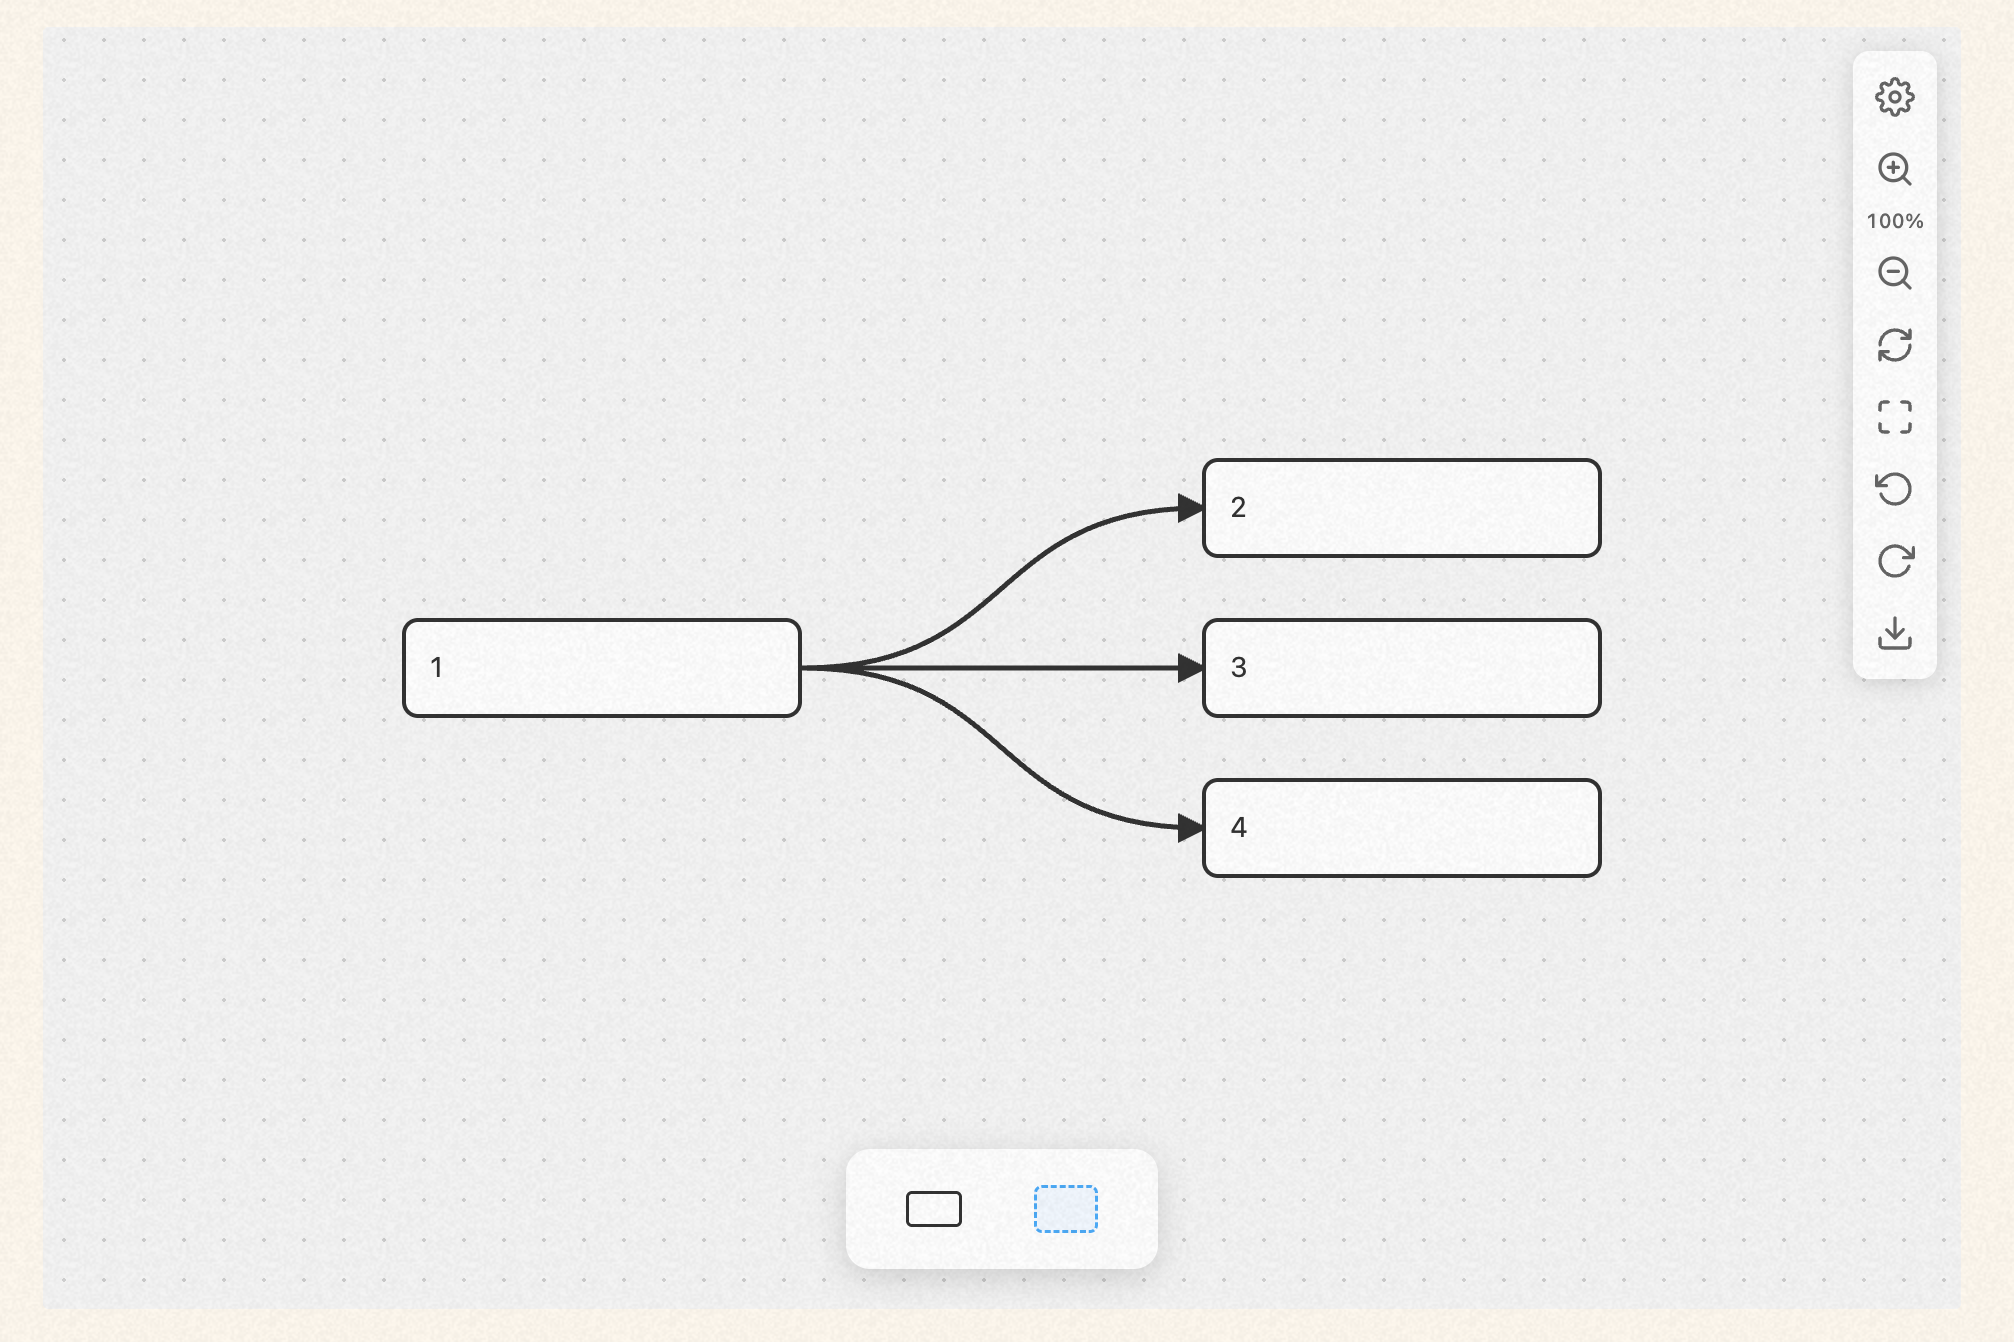
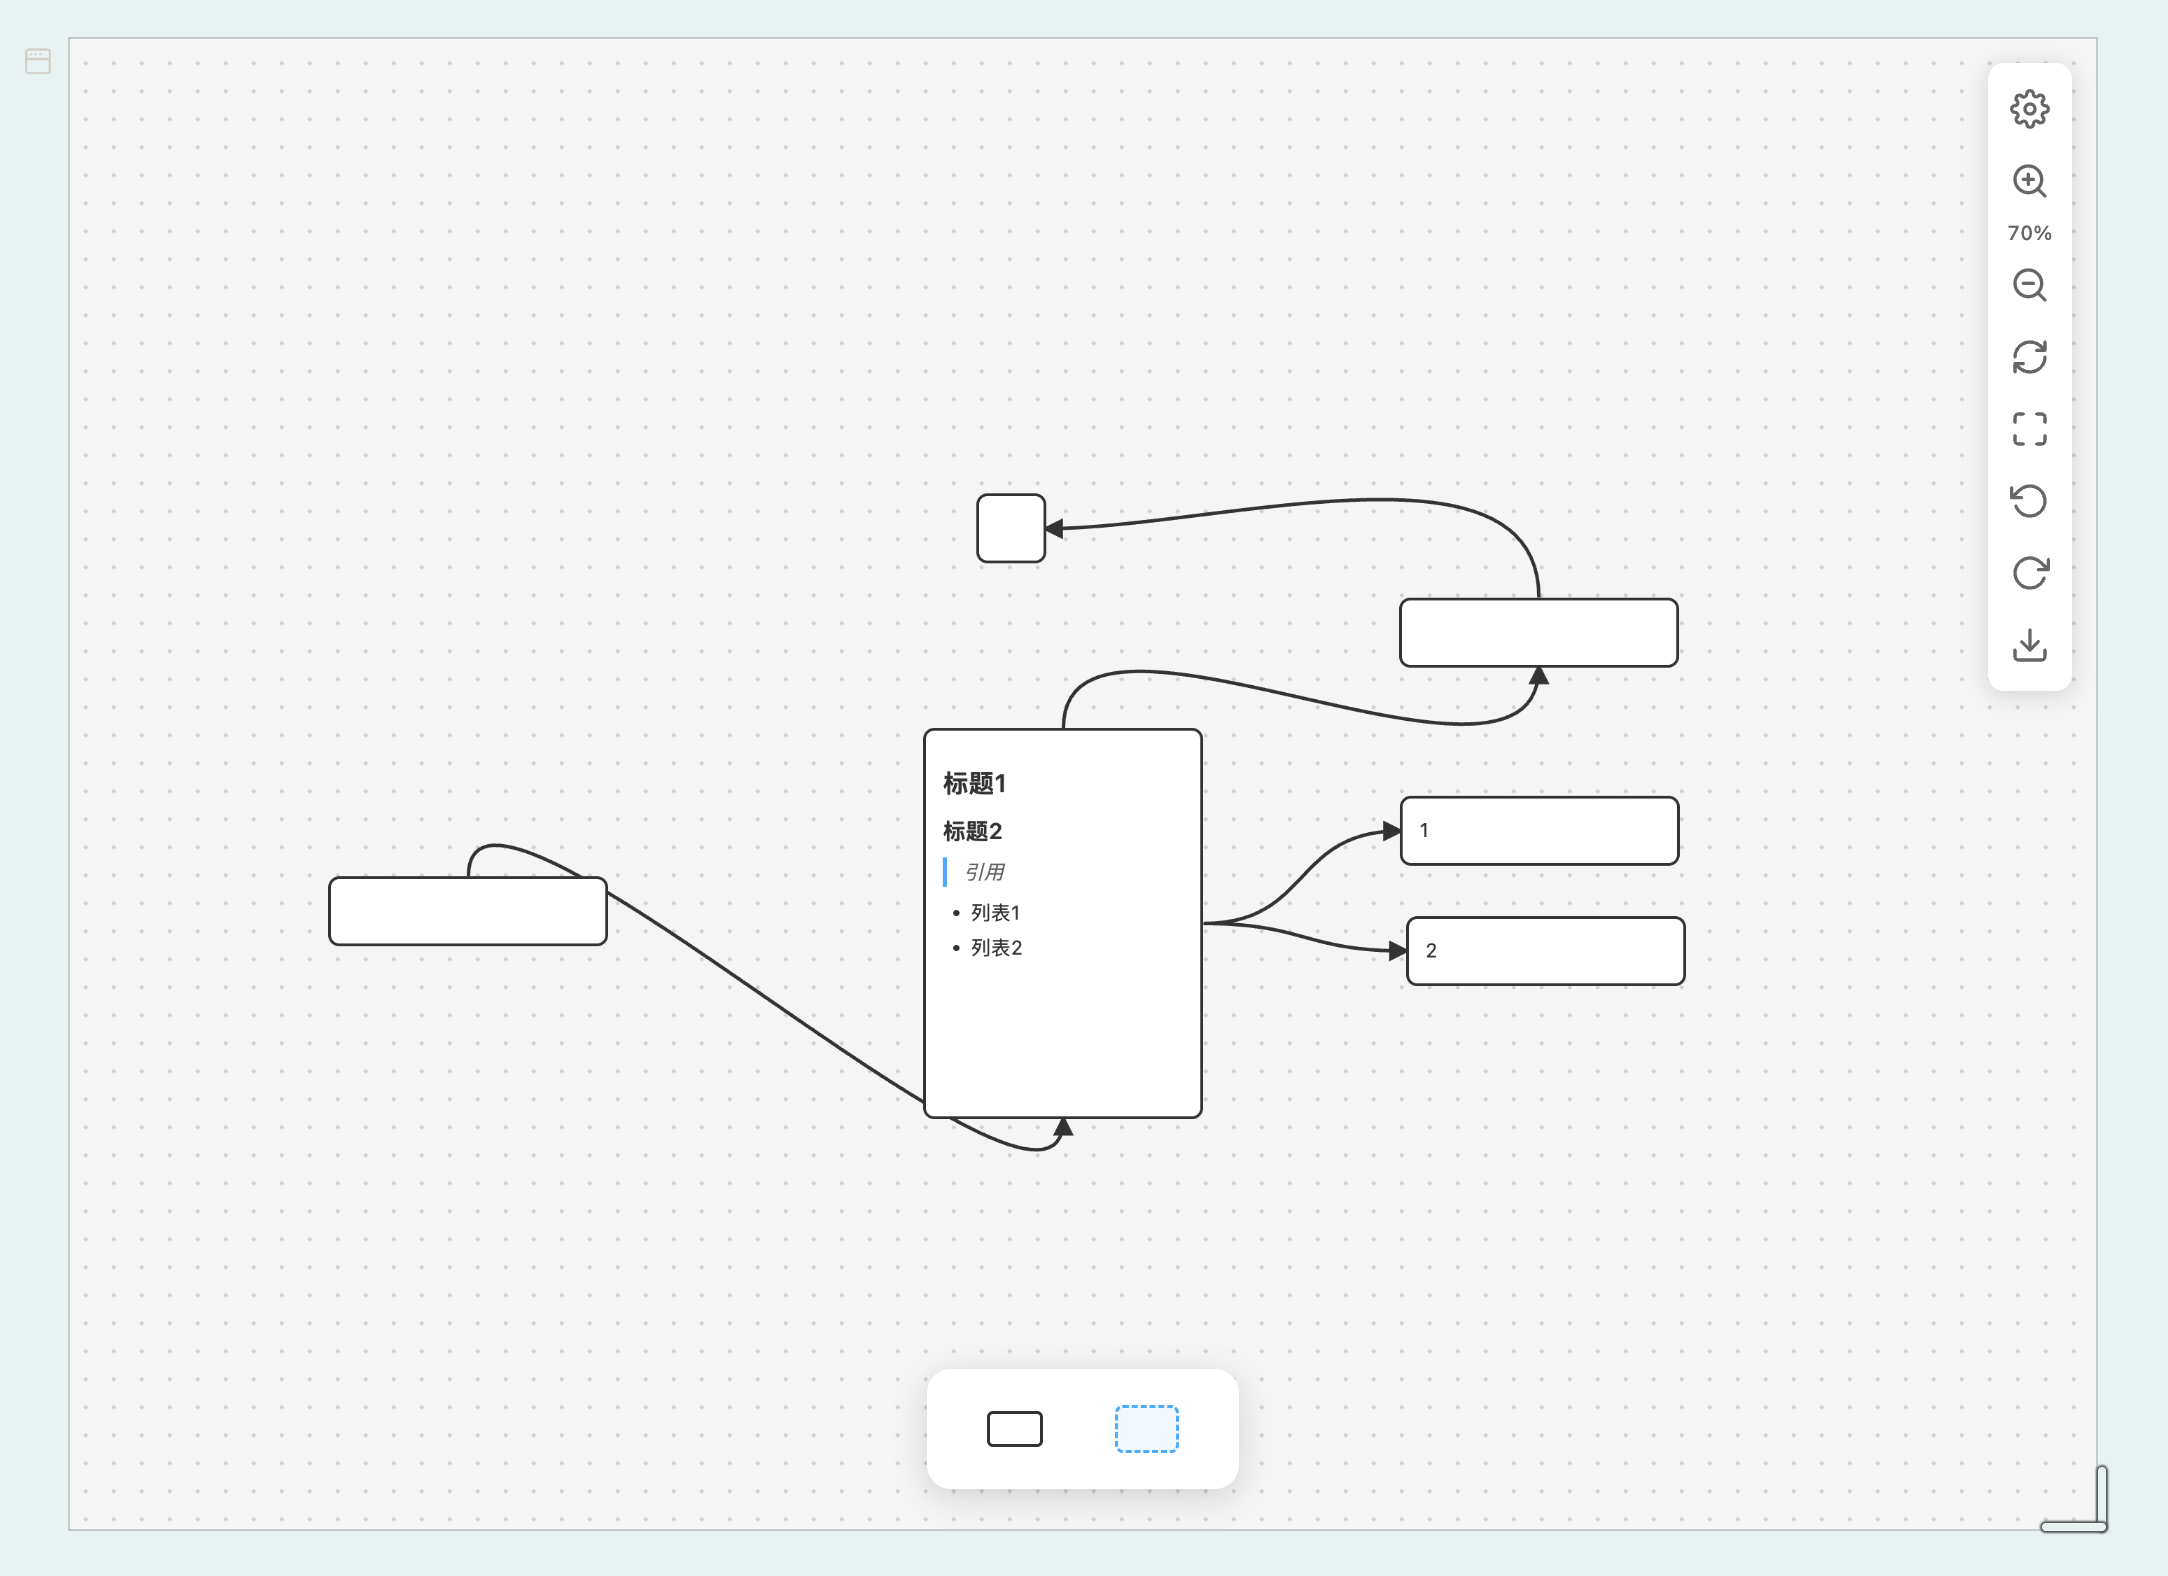
Add files via upload

diff --git a/index.js b/index.js
@@ -367,9 +367,20 @@ function zoom(delta, centerX, centerY) {
     autoSave();
 }
 
-// 重置视图
+// 重置缩放（以画布中心为基准，仅重置 zoom，不改变位置）
 function resetView() {
-    state.viewport = { x: 0, y: 0, zoom: 1 };
+    if (state.viewport.zoom === 1) return;
+    const container = document.getElementById('canvas-container');
+    const rect = container.getBoundingClientRect();
+    const cx = rect.left + rect.width / 2;
+    const cy = rect.top + rect.height / 2;
+    // 以视口中心为基点缩放到 zoom=1
+    const oldZoom = state.viewport.zoom;
+    const canvasX = (cx - rect.left - state.viewport.x) / oldZoom;
+    const canvasY = (cy - rect.top - state.viewport.y) / oldZoom;
+    state.viewport.zoom = 1;
+    state.viewport.x = cx - rect.left - canvasX * 1;
+    state.viewport.y = cy - rect.top - canvasY * 1;
     updateCanvasTransform();
     updateZoomLabel();
     autoSave();
@@ -828,13 +839,11 @@ function bindNodeEvents(card, nodeId) {
     });
 }
 
-// 开始编辑节点
-// 开始编辑节点
+// 开始编辑节点（使用 textarea，换行和 Markdown 编辑更可靠）
 function startEditingNode(nodeId) {
     const card = document.querySelector(`[data-node-id="${nodeId}"]`);
     if (!card) return;
 
-    // 只允许编辑文本卡片
     const node = state.nodes.find(n => n.id === nodeId);
     if (!node || node.type !== 'text') {
         showMessage('此卡片类型不支持编辑');
@@ -847,60 +856,55 @@ function startEditingNode(nodeId) {
     state.editingNode = nodeId;
     card.classList.add('editing');
 
-    // 显示 Markdown 源代码供编辑
-    content.textContent = node.text;
-    content.contentEditable = 'true';
-    content.style.whiteSpace = 'pre-wrap';
-    content.style.fontFamily = 'monospace';
-    content.focus();
-
-    // 选中所有文本
-    const range = document.createRange();
-    range.selectNodeContents(content);
-    const selection = window.getSelection();
-    selection.removeAllRanges();
-    selection.addRange(range);
+    // 用 <textarea> 替代 contenteditable（换行可靠、跨浏览器一致）
+    const textarea = document.createElement('textarea');
+    textarea.className = 'card-textarea';
+    textarea.value = node.text || '';
+    textarea.style.cssText = 'width:100%;height:100%;border:none;outline:none;resize:none;' +
+        'padding:12px;font:13px/1.6 Consolas,Monaco,monospace;' +
+        'background:var(--color-bg-secondary);color:var(--color-text-primary);' +
+        'border-radius:inherit;tab-size:4;';
+    content.innerHTML = '';
+    content.appendChild(textarea);
+    textarea.focus();
 
     // 保存编辑内容
     const saveEdit = () => {
-        const node = state.nodes.find(n => n.id === nodeId);
-        if (node) {
-            // 获取编辑后的纯文本（Markdown 源代码）
-            node.text = content.textContent;
-
+        const n = state.nodes.find(nn => nn.id === nodeId);
+        if (n) {
+            n.text = textarea.value;
             // 重新渲染 Markdown
-            content.innerHTML = parseMarkdown(node.text);
-            content.style.whiteSpace = '';
-            content.style.fontFamily = '';
-
+            content.innerHTML = parseMarkdown(n.text);
             autoSave();
         }
-
         state.editingNode = null;
         card.classList.remove('editing');
-        content.contentEditable = 'false';
-
-        content.removeEventListener('blur', saveEdit);
+        textarea.removeEventListener('blur', saveEdit);
+        textarea.removeEventListener('keydown', handleKeyDown);
     };
 
-    content.addEventListener('blur', saveEdit);
+    textarea.addEventListener('blur', saveEdit);
 
-    // Escape 键取消编辑
     const handleKeyDown = (e) => {
-        if (e.key === 'Escape') {
+        if (e.key === 'Escape' && !e.shiftKey) {
             e.preventDefault();
-            content.blur();
-            content.removeEventListener('keydown', handleKeyDown);
+            textarea.blur();
         }
-        // Ctrl/Cmd + Enter 保存
         if ((e.ctrlKey || e.metaKey) && e.key === 'Enter') {
             e.preventDefault();
-            content.blur();
-            content.removeEventListener('keydown', handleKeyDown);
+            textarea.blur();
+        }
+        // Tab 键插入空格而非跳转焦点
+        if (e.key === 'Tab') {
+            e.preventDefault();
+            const start = textarea.selectionStart;
+            const end = textarea.selectionEnd;
+            textarea.value = textarea.value.substring(0, start) + '    ' + textarea.value.substring(end);
+            textarea.selectionStart = textarea.selectionEnd = start + 4;
         }
     };
 
-    content.addEventListener('keydown', handleKeyDown);
+    textarea.addEventListener('keydown', handleKeyDown);
 }
 
 // 开始拖拽节点
@@ -967,6 +971,92 @@ function stopDraggingNode() {
     document.removeEventListener('mousemove', onDraggingNode);
     document.removeEventListener('mouseup', stopDraggingNode);
     autoSave(); // 拖拽结束后统一保存
+}
+
+// 从框选框左键拖拽移动所有选中节点
+let _marqueeDragData = null;
+function startMarqueeDrag(e) {
+    if (state.isReadOnly) return;
+    state.isDragging = true;
+    state._dragActuallyMoved = false;
+
+    const pos = screenToCanvas(e.clientX, e.clientY);
+    _marqueeDragData = {
+        startX: pos.x,
+        startY: pos.y,
+        // 记录每个选中节点的初始位置
+        nodePositions: [...state.selectedNodes].map(id => {
+            const n = state.nodes.find(nn => nn.id === id);
+            return n ? { id, x: n.x, y: n.y } : null;
+        }).filter(Boolean)
+    };
+
+    document.addEventListener('mousemove', onMarqueeDrag);
+    document.addEventListener('mouseup', stopMarqueeDrag);
+}
+function onMarqueeDrag(e) {
+    if (!state.isDragging || !_marqueeDragData) return;
+
+    state._dragActuallyMoved = true;
+    const pos = screenToCanvas(e.clientX, e.clientY);
+    const dx = pos.x - _marqueeDragData.startX;
+    const dy = pos.y - _marqueeDragData.startY;
+
+    _marqueeDragData.nodePositions.forEach(np => {
+        const node = state.nodes.find(n => n.id === np.id);
+        if (!node) return;
+        let newX = np.x + dx;
+        let newY = np.y + dy;
+        if (state.isSnapToGrid) {
+            newX = Math.round(newX / CONFIG.GRID_SIZE) * CONFIG.GRID_SIZE;
+            newY = Math.round(newY / CONFIG.GRID_SIZE) * CONFIG.GRID_SIZE;
+        }
+        node.x = newX;
+        node.y = newY;
+        const card = document.querySelector(`[data-node-id="${np.id}"]`);
+        if (card) { card.style.left = newX + 'px'; card.style.top = newY + 'px'; }
+        updateEdgesForNode(np.id);
+    });
+    // 实时更新框选框位置
+    updateMarqueeRect();
+}
+function updateMarqueeRect() {
+    if (!state._marqueeRect) return;
+    let minX = Infinity, minY = Infinity, maxX = -Infinity, maxY = -Infinity;
+    state.selectedNodes.forEach(id => {
+        const node = state.nodes.find(n => n.id === id);
+        if (node) {
+            minX = Math.min(minX, node.x);
+            minY = Math.min(minY, node.y);
+            maxX = Math.max(maxX, node.x + node.width);
+            maxY = Math.max(maxY, node.y + node.height);
+        }
+    });
+    if (minX >= Infinity) return;
+    const pad = 8;
+    const marquee = document.getElementById('marquee-selection');
+    if (marquee) {
+        marquee.style.left = (minX - pad) + 'px';
+        marquee.style.top = (minY - pad) + 'px';
+        marquee.style.width = (maxX - minX + pad * 2) + 'px';
+        marquee.style.height = (maxY - minY + pad * 2) + 'px';
+    }
+    state._marqueeRect = { left: minX - pad, top: minY - pad,
+        width: maxX - minX + pad * 2, height: maxY - minY + pad * 2 };
+}
+function stopMarqueeDrag() {
+    if (state._dragActuallyMoved) {
+        saveHistory();
+    }
+    // 确保框选框位置最终一致
+    updateMarqueeRect();
+
+    state.isDragging = false;
+    _marqueeDragData = null;
+    state._dragActuallyMoved = false;
+    document.removeEventListener('mousemove', onMarqueeDrag);
+    document.removeEventListener('mouseup', stopMarqueeDrag);
+    autoSave();
 }
 
 // ============================================
@@ -2514,6 +2604,39 @@ function bindPageLifecycleEvents() {
 function bindGlobalEvents() {
     const container = document.getElementById('canvas-container');
 
+    // 自定义 tooltip（iframe 中浏览器禁用原生 title tooltip）
+    const tooltipEl = document.createElement('div');
+    tooltipEl.className = 'tooltip';
+    document.body.appendChild(tooltipEl);
+    let _ttTimer = null;
+    document.querySelectorAll('#toolbar button, #top-toolbar button').forEach(btn => {
+        const text = btn.getAttribute('title');
+        if (!text) return;
+        btn.removeAttribute('title');
+        btn.addEventListener('mouseenter', () => {
+            clearTimeout(_ttTimer);
+            tooltipEl.textContent = text;
+            // 先设为不可见但占据布局空间，以便读取尺寸
+            tooltipEl.style.visibility = 'hidden';
+            tooltipEl.classList.add('show');
+            const tw = tooltipEl.offsetWidth;
+            const th = tooltipEl.offsetHeight;
+            tooltipEl.style.visibility = '';
+            const rect = btn.getBoundingClientRect();
+            const isTopBar = btn.closest('#top-toolbar');
+            if (isTopBar) {
+                tooltipEl.style.left = (rect.left - tw - 10) + 'px';
+                tooltipEl.style.top = (rect.top + rect.height / 2 - th / 2) + 'px';
+            } else {
+                tooltipEl.style.left = (rect.left + rect.width / 2 - tw / 2) + 'px';
+                tooltipEl.style.top = (rect.top - th - 10) + 'px';
+            }
+        });
+        btn.addEventListener('mouseleave', () => {
+            _ttTimer = setTimeout(() => tooltipEl.classList.remove('show'), 100);
+        });
+    });
+
     // Space 键状态跟踪
     state.isSpacePressed = false;
 
@@ -2571,6 +2694,10 @@ function bindGlobalEvents() {
 
             if (!isOnCard && !isOnEdge && !isOnAnchor && !isOnResize && !isOnToolbar && !isOnMarquee && !inMarqueeRect) {
                 startMarqueeSelection(e);
+            }
+            // 左键点击框选框内部或边框 → 拖拽移动所有选中节点
+            if ((isOnMarquee || inMarqueeRect) && state._marqueeRect && state.selectedNodes.size > 0) {
+                startMarqueeDrag(e);
             }
         }
     });

diff --git a/styles.css b/styles.css
@@ -296,17 +296,28 @@ html, body {
 }
 
 /* 编辑模式 */
-.card-content[contenteditable="true"] {
-    cursor: text;
+.card.editing .card-content {
+    padding: 0;
+    overflow: hidden;
+    border-radius: 8px;
+}
+.card-textarea {
+    display: block;
+    width: 100%;
+    height: 100%;
+    min-height: 40px;
+    border: none;
     outline: none;
-    user-select: text;
-    -webkit-user-select: text;
-    white-space: pre-wrap;
+    resize: none;
+    padding: 12px;
     font-family: 'Consolas', 'Monaco', 'Courier New', monospace;
     font-size: 13px;
+    line-height: 1.6;
     background: var(--color-bg-secondary);
-    padding: 12px;
-    border-radius: inherit;
+    color: var(--color-text-primary);
+    border-radius: 8px;
+    tab-size: 4;
+    -moz-tab-size: 4;
 }
 
 /* 卡片颜色预设 */
@@ -994,13 +1005,14 @@ html, body {
     position: fixed;
     background: #333;
     color: white;
-    padding: 6px 10px;
+    padding: 6px 12px;
     border-radius: 6px;
     font-size: 12px;
     pointer-events: none;
     z-index: 10003;
     opacity: 0;
-    transition: opacity 0.2s;
+    white-space: nowrap;
+    transition: opacity 0.15s;
 }
 
 .tooltip.show {
@@ -1159,4 +1171,17 @@ html, body {
 @keyframes fadeOut {
     from { opacity: 1; }
     to { opacity: 0; }
+}
+
+/* ============================================
+   工具栏自动隐藏（纯 CSS body:hover）
+   ============================================ */
+#toolbar, #top-toolbar {
+    opacity: 0;
+    transition: opacity 0.5s ease;
+}
+body:hover #toolbar,
+body:hover #top-toolbar {
+    opacity: 1;
+    transition: opacity 0.1s ease;
 }

diff --git a/README.md b/README.md
@@ -14,7 +14,8 @@ A visual canvas widget for [SiYuan Note](https://b3log.org/siyuan/), inspired by
 - **Text cards** — Markdown content, 8 colors, rounded/rect shapes, solid/dashed borders
 - **Group cards** — dashed-border containers with renamable header, always behind other cards
 - **Drag from toolbar** — drag card/group buttons onto canvas, preview follows cursor
-- **Auto-edit** — new text cards enter edit mode immediately, double-click to re-edit
+- **Toolbar auto-hide** — toolbars fade out when mouse leaves, custom tooltips on hover
+- **Auto-edit** — new text cards enter edit mode immediately; `<textarea>` for reliable line breaks and Tab indentation
 
 ### Connections
 - **Bezier curves** — drag from card edge anchors to create smooth connections between cards
@@ -29,7 +30,7 @@ A visual canvas widget for [SiYuan Note](https://b3log.org/siyuan/), inspired by
 
 ### Selection & Editing
 - **Click** to select, **drag** to move, **resize handles** on all four corners and edges
-- **Marquee selection** — drag on empty canvas to select multiple cards
+- **Marquee selection** — drag on empty canvas to select multiple cards, then drag the selection box to move them all at once
 - **Keyboard nudge** — arrow keys (±5px), `Shift+arrow` (±20px)
 - **Copy/Paste** (`Ctrl/Cmd+C/V`), **Duplicate** (`Ctrl/Cmd+D`), **Delete** (`Backspace`)
 - **Undo/Redo** (`Ctrl/Cmd+Z` / `Ctrl/Cmd+Y`) — 50-step history, strict step-by-step

diff --git a/README_zh_CN.md b/README_zh_CN.md
@@ -14,7 +14,8 @@
 - **文本卡片** — 支持 Markdown 内容，8 种颜色，圆角/直角，实线/虚线边框
 - **分组容器** — 虚线蓝色边框，双击标题栏重命名，始终在卡片下方
 - **工具栏拖拽** — 从底部工具栏拖出卡片/组按钮，鼠标旁显示缩略预览
-- **自动编辑** — 新建文本卡片立即进入编辑模式，双击重新编辑
+- **工具栏自动隐藏** — 鼠标离开时淡出，悬停显示自定义提示
+- **自动编辑** — 新建文本卡片立即进入编辑模式，`<textarea>` 编辑，换行可靠、Tab 缩进
 
 ### 连线
 - **贝塞尔曲线** — 从卡片边缘锚点拖出，创建平滑连线
@@ -29,7 +30,7 @@
 
 ### 选择与编辑
 - **单击**选中，**拖拽**移动，**四角四边**调整大小
-- **框选** — 空白处拖拽框选多张卡片
+- **框选** — 空白处拖拽框选多张卡片，再拖拽框选框可整体移动
 - **方向键微调** — 方向键（±5px），`Shift+方向键`（±20px）
 - **复制/粘贴**（`Ctrl/Cmd+C/V`），**复制副本**（`Ctrl/Cmd+D`），**删除**（`Backspace`）
 - **撤销/重做**（`Ctrl/Cmd+Z` / `Ctrl/Cmd+Y`）— 50 步，严格逐级